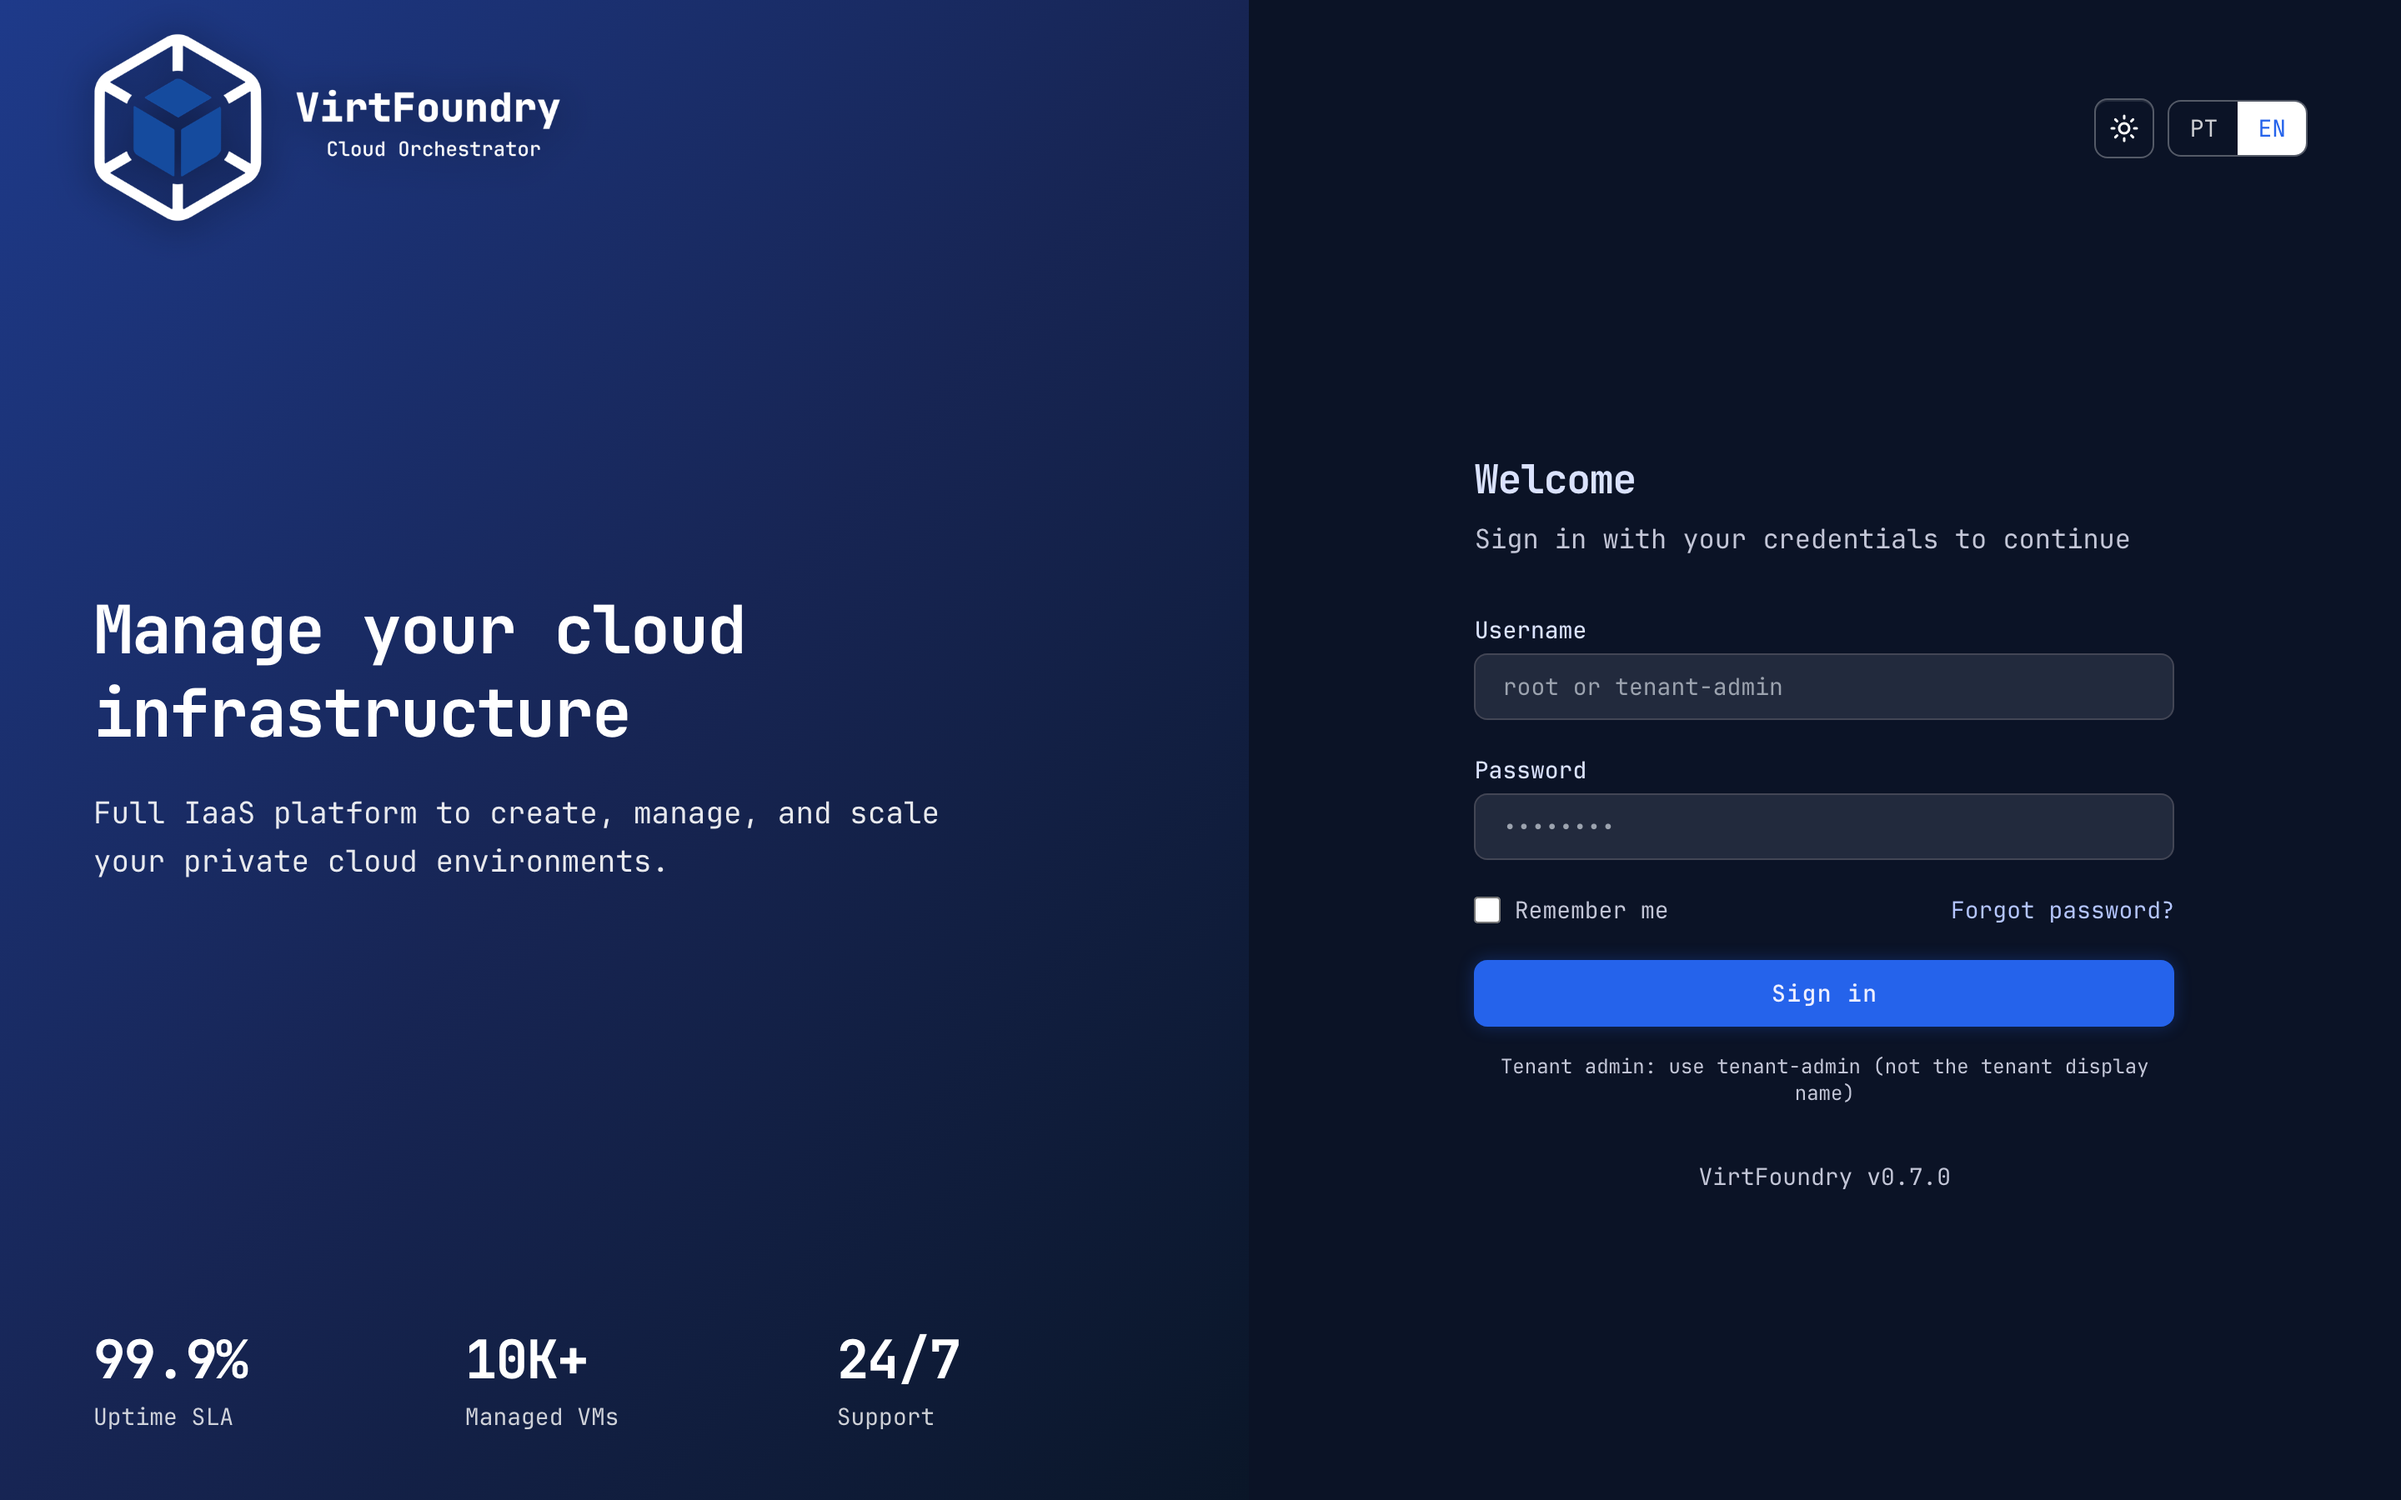
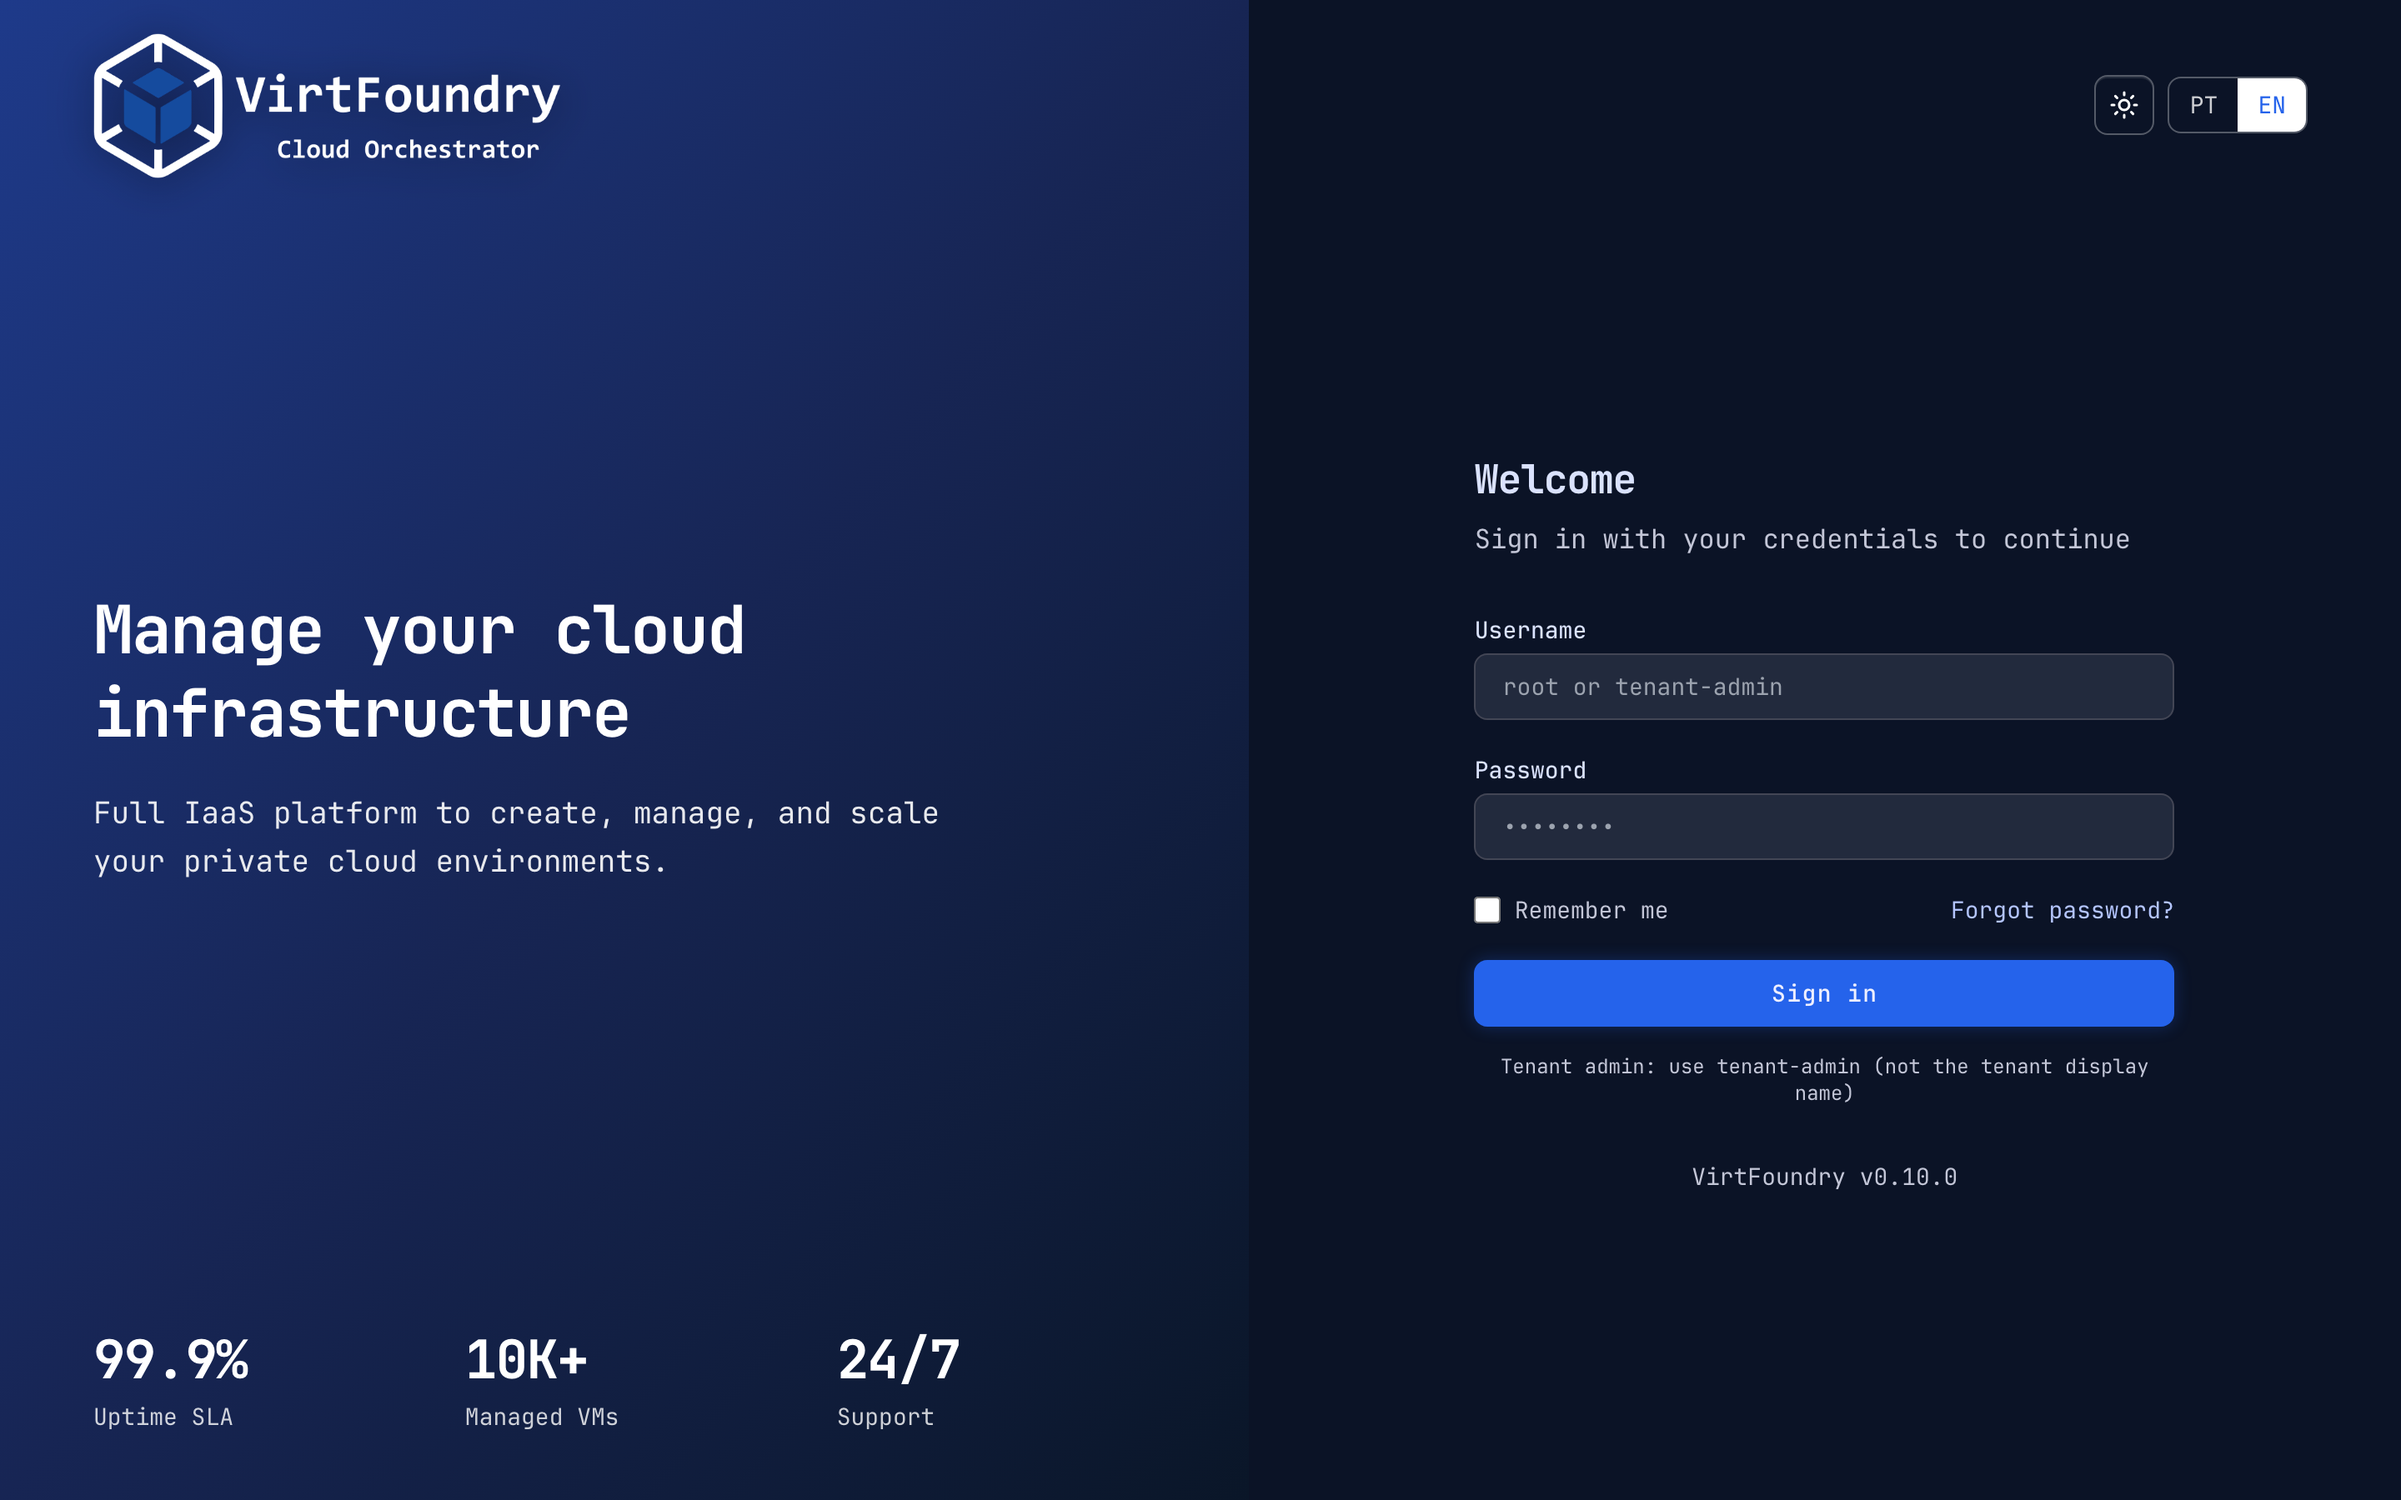
docs(site): refresh UI screenshots for 0.10.0 and add VKS clusters

Changed region(s): [[0.0312, 0.0, 0.25, 0.1556], [0.875, 0.0311, 0.9688, 0.1244], [0.7188, 0.7778, 0.8125, 0.8089]]

diff --git a/scripts/docs/capture-ui-shots.py b/scripts/docs/capture-ui-shots.py
@@ -3,17 +3,22 @@
 
 from __future__ import annotations
 
+import os
 import sys
 from pathlib import Path
 
 from playwright.sync_api import sync_playwright
 
-BASE = "http://127.0.0.1:18080"
+BASE = os.environ.get("VF_UI_URL", "http://virtfoundry.homelab")
 OUT = Path(__file__).resolve().parents[2] / "docs" / "assets" / "screenshots"
 PAGES = [
     ("02-dashboard.png", "/dashboard"),
     ("03-vms.png", "/vms"),
+    ("04-templates.png", "/templates"),
+    ("05-volumes.png", "/volumes"),
+    ("07-networks.png", "/networks"),
     ("08-vm-snapshots.png", "/vm-snapshots"),
+    ("09-clusters.png", "/clusters"),
 ]
 
 
@@ -21,9 +26,12 @@ def main() -> None:
     OUT.mkdir(parents=True, exist_ok=True)
     with sync_playwright() as p:
         browser = p.chromium.launch(headless=True)
-        page = browser.new_page(viewport={"width": 1440, "height": 900}, device_scale_factor=2)
+        page = browser.new_page(viewport={"width": 1440, "height": 900}, device_scale_factor=2, color_scheme="dark")
+        page.add_init_script("localStorage.setItem('virtfoundry_theme', 'dark')")
         page.goto(f"{BASE}/login", wait_until="networkidle")
         page.get_by_role("button", name="EN", exact=True).click()
+        page.screenshot(path=str(OUT / "01-login.png"), full_page=False)
+        print(f"wrote {OUT / '01-login.png'}")
         page.get_by_placeholder("root or tenant-admin").fill("root")
         page.get_by_placeholder("••••••••").fill("virtfoundry")
         page.get_by_role("button", name="Sign in").click()

diff --git a/docs/project/versioning.md b/docs/project/versioning.md
@@ -71,6 +71,7 @@ helm install virtfoundry virtfoundry/virtfoundry --version 0.10.0 \
    ```
 
 6. CI publishes container images and Helm package; docs site rebuilds; homelab digest write-back updates Argo overlay
+7. **After the homelab syncs, refresh the docs screenshots** in a docs-only PR: `python scripts/docs/capture-ui-shots.py` writes `docs/assets/screenshots/` in the dark theme (set `VF_UI_URL` to override the homelab URL). Check that the login footer shows the new version and that no secrets are visible.
 
 ## Compatibility
 

diff --git a/docs/guide/features/vks.md b/docs/guide/features/vks.md
@@ -25,6 +25,11 @@ flowchart LR
 | IaaS operator | Turns each worker `Instance` into a KubeVirt VM |
 | Kamaji | Hosts the Kubernetes API server and etcd for the tenant cluster |
 
+<figure markdown="span">
+  ![VKS clusters list in the VirtFoundry console](../../assets/screenshots/09-clusters.png)
+  <figcaption>Compute → VKS Clusters. Click to zoom.</figcaption>
+</figure>
+
 ## Create a cluster
 
 ```yaml
